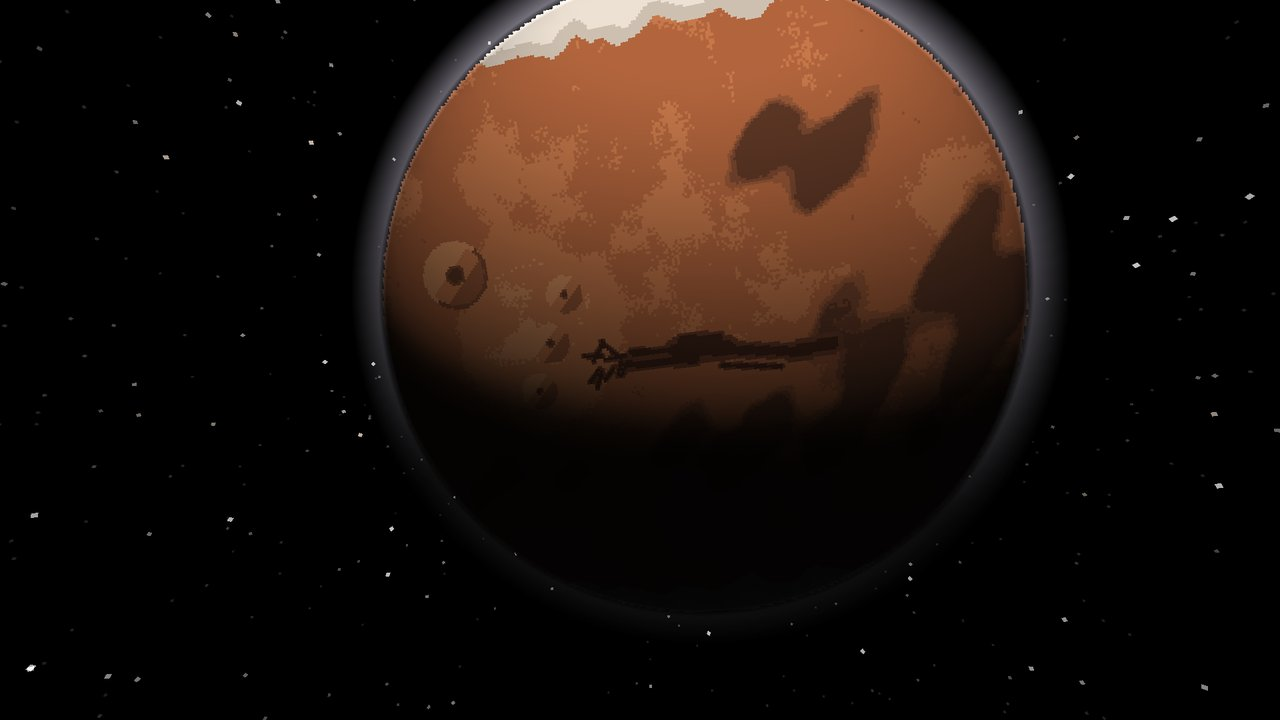
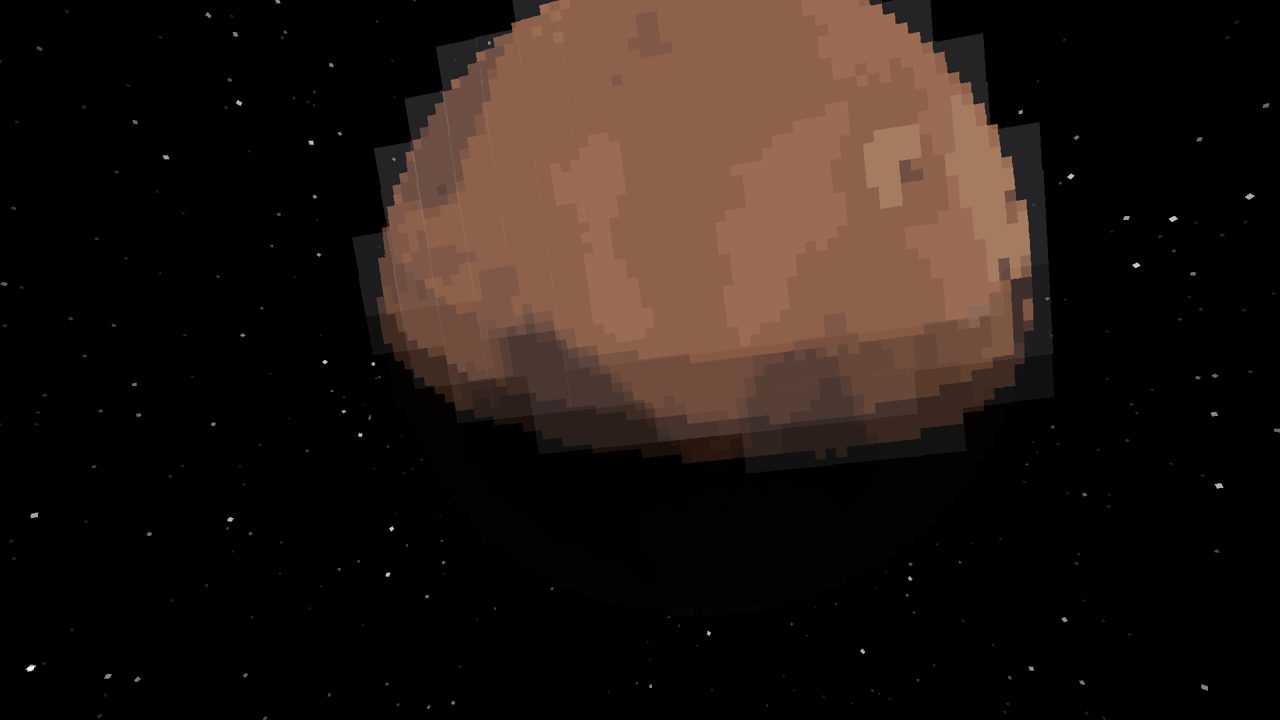
Blocky bodies in the Mars skies
Phobos and Deimos over Mars, Mars over its moons (with a thin translucent shell of air) and the neighbours seen from the inner orbits are now balls of blocks lit by the sun. The planet below an inner orbit stays a true sphere for now: the blocky renderer flattens depth, which only suits distant bodies.

Changed region(s): [[0.2812, 0.0, 0.8438, 0.6417], [0.75, 0.6111, 0.7812, 0.6417]]

diff --git a/src/main/java/com/pizzaparker07/spacebreaker/client/mars/InnerOrbitSkyEffects.java b/src/main/java/com/pizzaparker07/spacebreaker/client/mars/InnerOrbitSkyEffects.java
@@ -43,8 +43,12 @@ public class InnerOrbitSkyEffects extends DimensionSpecialEffects {
     private record Look(ResourceLocation texture, float sunDeg, float[] haze, float thickness, Far... far) {
     }
 
-    /** A distant body: texture, direction and half size of its billboard. */
-    private record Far(ResourceLocation texture, Vector3f dir, float size) {
+    /** A distant body: texture, direction and half size of its billboard, and its colours for the blocky style. */
+    private record Far(ResourceLocation texture, Vector3f dir, float size, com.pizzaparker07.spacebreaker.client.sky.BlockyBodyRenderer.ColorMap map) {
+    }
+
+    private static com.pizzaparker07.spacebreaker.client.sky.BlockyBodyRenderer.ColorMap flat(int rgb) {
+        return com.pizzaparker07.spacebreaker.client.sky.BlockyBodyRenderer.flat(rgb);
     }
 
     private final Look look;
@@ -56,13 +60,16 @@ public class InnerOrbitSkyEffects extends DimensionSpecialEffects {
         this.bodyId = Spacebreaker.id(body);
         this.look = switch (body) {
             case "venus" -> new Look(env("orbit_venus"), 0.72F, new float[]{1F, 0.93F, 0.72F, 0.85F}, 0.085F,
-                    new Far(env("orbit_earth_disc"), new Vector3f(-0.55F, 0.4F, 0.7F), 1.1F),
-                    new Far(env("mercury_disc"), new Vector3f(0.75F, 0.5F, -0.3F), 0.7F));
+                    new Far(env("orbit_earth_disc"), new Vector3f(-0.55F, 0.4F, 0.7F), 1.1F,
+                            com.pizzaparker07.spacebreaker.client.sky.BlockyBodyRenderer.texture(env("earth_map"))),
+                    new Far(env("mercury_disc"), new Vector3f(0.75F, 0.5F, -0.3F), 0.7F,
+                            com.pizzaparker07.spacebreaker.client.sky.BlockyBodyRenderer.texture(env("orbit_mercury"))));
             case "mercury" -> new Look(env("orbit_mercury"), 1.4F, null, 0F,
-                    new Far(env("venus_disc"), new Vector3f(-0.6F, 0.45F, 0.6F), 1.0F));
+                    new Far(env("venus_disc"), new Vector3f(-0.6F, 0.45F, 0.6F), 1.0F,
+                            com.pizzaparker07.spacebreaker.client.sky.BlockyBodyRenderer.texture(env("orbit_venus"))));
             default -> new Look(env("orbit_mars"), 0.35F, new float[]{0.78F, 0.82F, 0.95F, 0.5F}, 0.035F,
-                    new Far(env("phobos"), new Vector3f(0.5F, 0.25F, -0.8F), 3.2F),
-                    new Far(env("deimos"), new Vector3f(-0.7F, 0.55F, -0.3F), 1.2F));
+                    new Far(env("phobos"), new Vector3f(0.5F, 0.25F, -0.8F), 3.2F, flat(0x5E554D)),
+                    new Far(env("deimos"), new Vector3f(-0.7F, 0.55F, -0.3F), 1.2F, flat(0x8C8072)));
         };
     }
 
@@ -149,13 +156,30 @@ public class InnerOrbitSkyEffects extends DimensionSpecialEffects {
             billboard(modelView, SUN, sun, sunHalf, true);
             RenderSystem.setShaderColor(1F, 1F, 1F, 1F);
         }
-        for (Far f : look.far) {
-            billboard(modelView, f.texture, f.dir, f.size, false);
-        }
+        var blocky = com.pizzaparker07.spacebreaker.client.sky.SkyConfig.blockyStyle();
         Vector3f center = new Vector3f(0, -DISTANCE, 0);
-        sphere(modelView, center, orbit * 0.5F, sun);
-        if (look.haze != null) {
-            haze(modelView, sun);
+        if (blocky != null) {
+            // the planet below and its neighbours as balls of blocks, all lit by the same sun
+            for (Far f : look.far) {
+                Vector3f c = new Vector3f(f.dir).normalize().mul(DISTANCE);
+                var pose = new com.pizzaparker07.spacebreaker.client.sky.BlockyBodyRenderer.Pose(c, f.size * 0.4F, new Vector3f(0, 1, 0),
+                        new Vector3f(c).negate(), 0F);
+                com.pizzaparker07.spacebreaker.client.sky.BlockyBodyRenderer.draw(modelView, blocky, 0, f.map, pose, sun, 0.03F, 1F, 1F, null);
+            }
+            // the planet below stays a true sphere: it fills half the view, and the blocky renderer flattens a body's
+            // depth toward the viewer, which only holds for bodies far away (asked of the renderer's owners)
+            sphere(modelView, center, orbit * 0.5F, sun);
+            if (look.haze != null) {
+                haze(modelView, sun);
+            }
+        } else {
+            for (Far f : look.far) {
+                billboard(modelView, f.texture, f.dir, f.size, false);
+            }
+            sphere(modelView, center, orbit * 0.5F, sun);
+            if (look.haze != null) {
+                haze(modelView, sun);
+            }
         }
         RenderSystem.setShaderColor(1F, 1F, 1F, 1F);
         RenderSystem.defaultBlendFunc();

diff --git a/src/main/java/com/pizzaparker07/spacebreaker/client/mars/MarsSkyEffects.java b/src/main/java/com/pizzaparker07/spacebreaker/client/mars/MarsSkyEffects.java
@@ -49,6 +49,17 @@ public class MarsSkyEffects extends DimensionSpecialEffects {
     private static final double SUN_SIZE = 0.35;
     /** Phobos (~0.2°) and Deimos (~0.04°, a bright star) from the surface, exaggerated a little to read at all. */
     private static final double PHOBOS_SIZE = 0.6;
+    /** Surface colours for the blocky moons: dark grey-brown dust, Phobos with the dark bowl of Stickney. */
+    private static final com.pizzaparker07.spacebreaker.client.sky.BlockyBodyRenderer.ColorMap PHOBOS_MAP = (lon, lat) -> {
+        double sx = lon + 0.8;
+        boolean stickney = sx * sx + lat * lat < 0.18;
+        int v = (int) (Math.sin(lon * 7.0) * Math.cos(lat * 5.0) * 10);
+        return stickney ? 0xFF3E3833 : 0xFF000000 | (0x5E + v) << 16 | (0x55 + v) << 8 | (0x4D + v);
+    };
+    private static final com.pizzaparker07.spacebreaker.client.sky.BlockyBodyRenderer.ColorMap DEIMOS_MAP = (lon, lat) -> {
+        int v = (int) (Math.sin(lon * 5.0 + 1) * Math.cos(lat * 4.0) * 8);
+        return 0xFF000000 | (0x8C + v) << 16 | (0x80 + v) << 8 | (0x72 + v);
+    };
     private static final double DEIMOS_SIZE = 0.22;
     /** Synodic periods relative to the ground, in sols: Phobos moves east (negative), Deimos west. */
     private static final double PHOBOS_PERIOD = -0.45;
@@ -390,6 +401,23 @@ public class MarsSkyEffects extends DimensionSpecialEffects {
         ps.mulPose(Axis.XP.rotationDegrees((float) lat));
         ps.mulPose(Axis.YP.rotationDegrees(-90F));
         ps.mulPose(Axis.XP.rotationDegrees((float) (hour * 360)));
+        var blocky = com.pizzaparker07.spacebreaker.client.sky.SkyConfig.blockyStyle();
+        if (blocky != null) {
+            // a little lumpy ball of blocks, lit by the sun; the frame's +Y points at the moon
+            org.joml.Quaternionf q = Axis.XP.rotationDegrees((float) lat).mul(Axis.YP.rotationDegrees(-90F))
+                    .mul(Axis.XP.rotationDegrees((float) (hour * 360)));
+            Vector3f sunLocal = q.conjugate(new org.joml.Quaternionf()).transform(new Vector3f((float) sun.x, (float) sun.y, (float) sun.z));
+            float radius = (float) (100 * Math.tan(Math.toRadians(size * com.pizzaparker07.spacebreaker.client.sky.SkyConfig.bodyScale() / 2)));
+            var pose = new com.pizzaparker07.spacebreaker.client.sky.BlockyBodyRenderer.Pose(new Vector3f(0, 100, 0), radius,
+                    new Vector3f(0, 0, 1), new Vector3f(0, -1, 0), 0F);
+            float tint = (float) ((1 - 0.8 * storm) * (1 - 0.5 * day));
+            com.pizzaparker07.spacebreaker.client.sky.BlockyBodyRenderer.draw(ps.last().pose(), blocky, 0,
+                    tex == PHOBOS ? PHOBOS_MAP : DEIMOS_MAP, pose, sunLocal, 0.03F, tint, 1F, null);
+            ps.popPose();
+            RenderSystem.setShaderColor(1F, 1F, 1F, 1F);
+            RenderSystem.blendFunc(GlStateManager.SourceFactor.ONE, GlStateManager.DestFactor.ONE);
+            return;
+        }
         RenderSystem.setShaderColor(b, b * 0.97F, b * 0.94F, 1F);
         float half = (float) (100 * Math.tan(Math.toRadians(size * com.pizzaparker07.spacebreaker.client.sky.SkyConfig.bodyScale() / 2)));
         Matrix4f m = ps.last().pose();

diff --git a/src/main/java/com/pizzaparker07/spacebreaker/client/mars/MarsMoonSkyEffects.java b/src/main/java/com/pizzaparker07/spacebreaker/client/mars/MarsMoonSkyEffects.java
@@ -36,6 +36,10 @@ import org.joml.Vector3d;
 public class MarsMoonSkyEffects extends PlanetSkyEffects {
     private static final ResourceLocation SUN = Spacebreaker.id("textures/environment/sun_vacuum.png");
     private static final ResourceLocation MARS = Spacebreaker.id("textures/environment/mars_disc.png");
+    /** Equirectangular map of Mars for the blocky planet. */
+    private static final ResourceLocation MARS_MAP = Spacebreaker.id("textures/environment/orbit_mars.png");
+    private static final com.pizzaparker07.spacebreaker.client.sky.BlockyBodyRenderer.ColorMap AIR =
+            com.pizzaparker07.spacebreaker.client.sky.BlockyBodyRenderer.flat(0xD8D2E6);
     private static final int GRID = 40;
     private static final int RING = 128;
     private final String bodyName;
@@ -134,6 +138,23 @@ public class MarsMoonSkyEffects extends PlanetSkyEffects {
         Vector3d sun = new Vector3d(s.dot(right), s.dot(up), s.dot(toViewer));
         float half = (float) (100 * Math.tan(Math.toRadians(Math.min(70, marsSize * SkyConfig.bodyScale()) / 2)));
         Vector3d c = new Vector3d(e).mul(100);
+        var blocky = SkyConfig.blockyStyle();
+        if (blocky != null) {
+            // Mars as a ball of blocks; the moon is tidally locked, so the same face always looks back
+            var pose = new com.pizzaparker07.spacebreaker.client.sky.BlockyBodyRenderer.Pose(
+                    new org.joml.Vector3f((float) c.x, (float) c.y, (float) c.z), half,
+                    new org.joml.Vector3f((float) up.x, (float) up.y, (float) up.z),
+                    new org.joml.Vector3f((float) toViewer.x, (float) toViewer.y, (float) toViewer.z), 0F);
+            org.joml.Vector3f sunDir = new org.joml.Vector3f((float) s.x, (float) s.y, (float) s.z);
+            com.pizzaparker07.spacebreaker.client.sky.BlockyBodyRenderer.draw(m, blocky, 0,
+                    com.pizzaparker07.spacebreaker.client.sky.BlockyBodyRenderer.texture(MARS_MAP), pose, sunDir, 0.03F, 1F, 1F, null);
+            // the thin pale air: one translucent shell of blocks just outside the ground
+            var shell = new com.pizzaparker07.spacebreaker.client.sky.BlockyBodyRenderer.Pose(pose.center(), half * 1.04F, pose.pole(), pose.facing(), 0F);
+            com.pizzaparker07.spacebreaker.client.sky.BlockyBodyRenderer.draw(m, blocky, 16, AIR, shell, sunDir, 0F, 1F, 0.22F, null);
+            RenderSystem.setShaderColor(1F, 1F, 1F, 1F);
+            RenderSystem.defaultBlendFunc();
+            return;
+        }
         RenderSystem.defaultBlendFunc();
         RenderSystem.setShader(GameRenderer::getPositionTexColorShader);
         RenderSystem.setShaderTexture(0, MARS);
